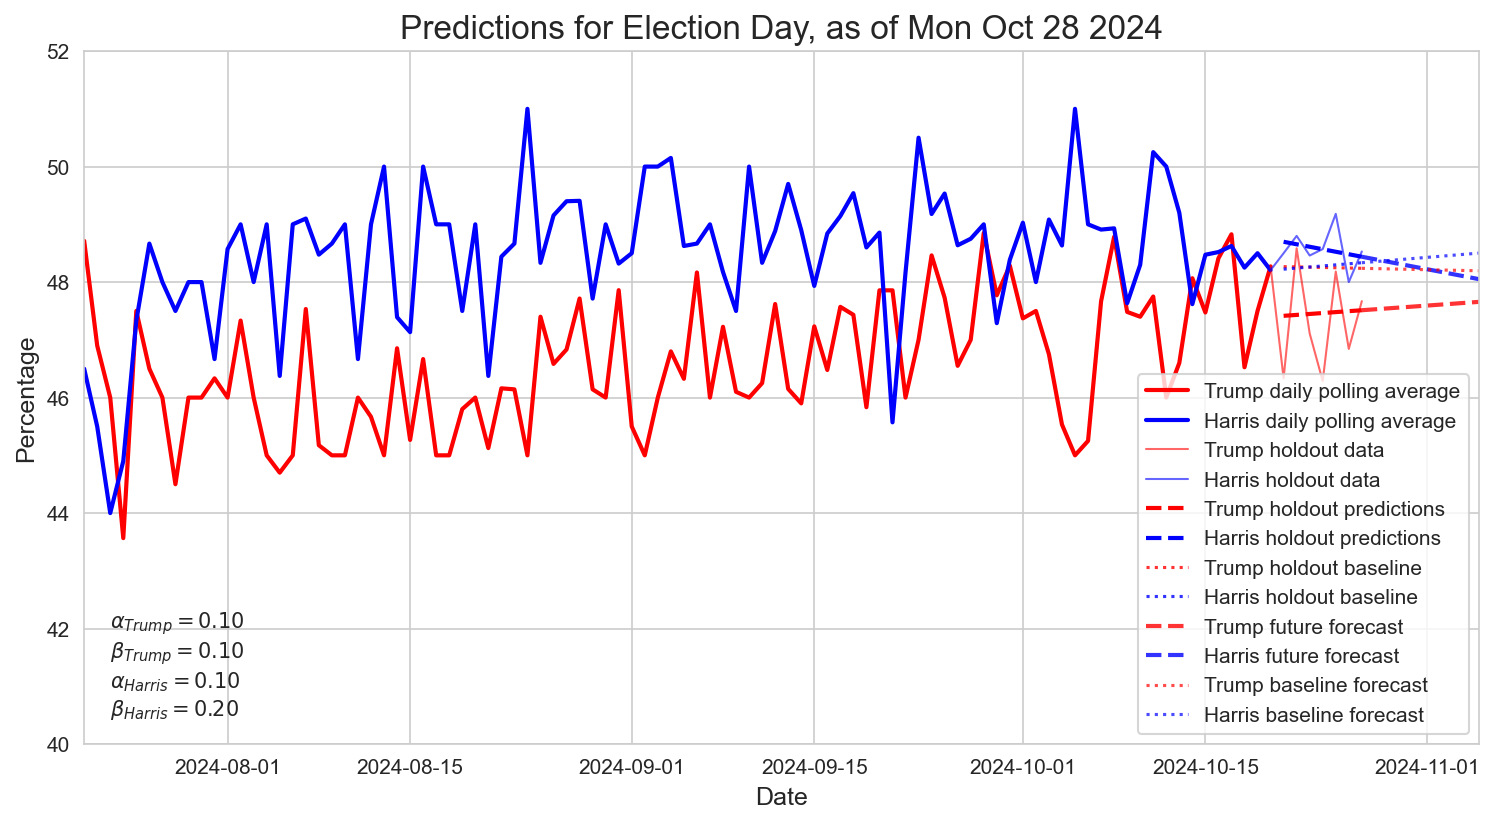
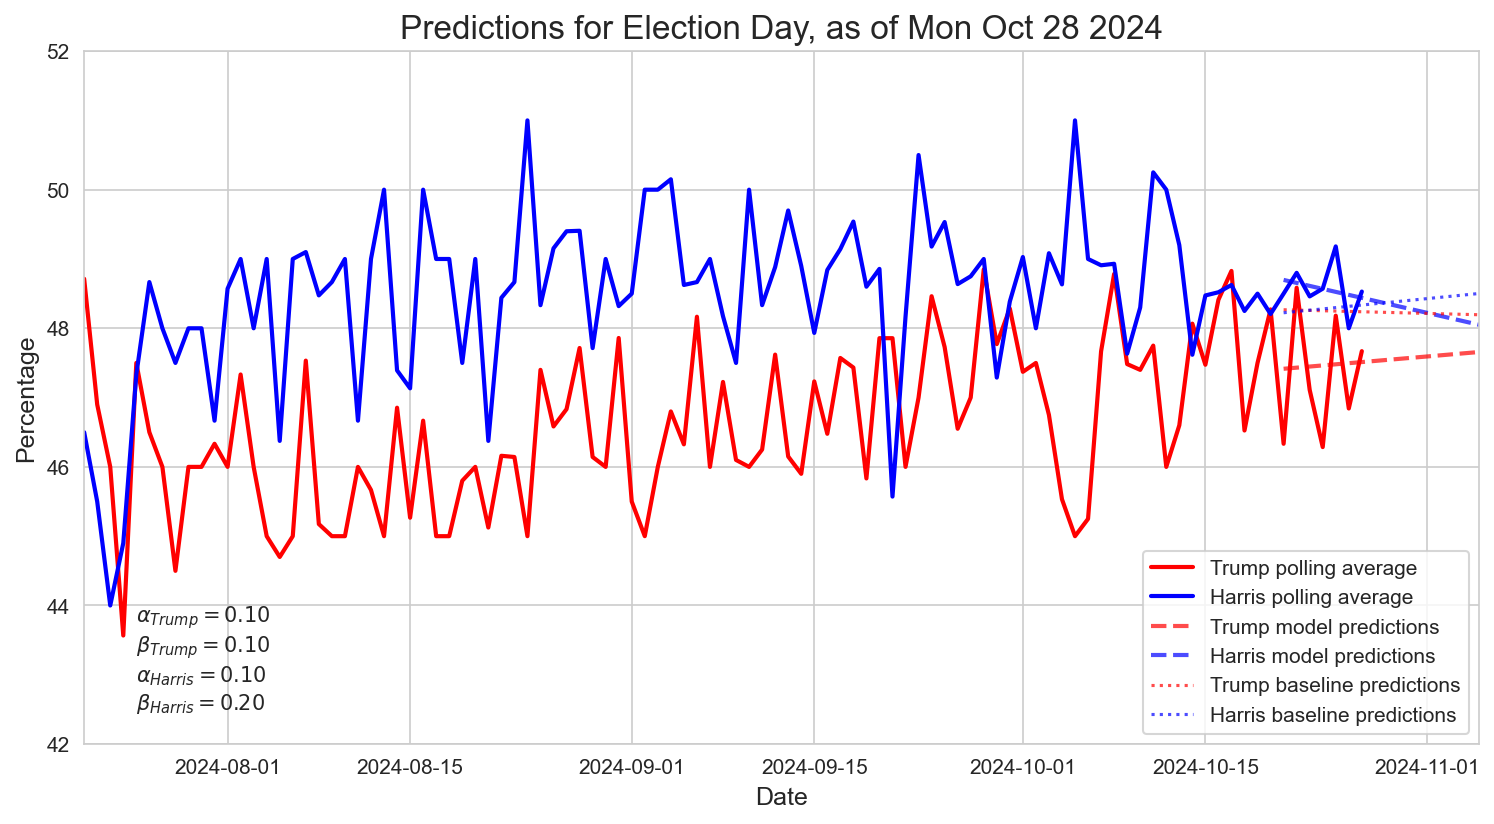
Consolidated plotting.py functions

Changed region(s): [[0.0308, 0.1517, 1.0, 0.8799], [0.0308, 0.182, 0.0616, 0.2427]]

diff --git a/src/visualization/plotting.py b/src/visualization/plotting.py
@@ -88,7 +88,7 @@ class ElectionPlotter:
         plt.xlabel("Date", fontsize=12)
         plt.ylabel("Percentage", fontsize=12)
         plt.xlim(datetime(2024, 7, 21), datetime(2024, 11, 5))
-        plt.ylim(40, 52)
+        plt.ylim(42, 52)
 
         # Title with forecast date
         title_date = forecast_date.strftime("%a %b %d %Y")
@@ -96,9 +96,6 @@ class ElectionPlotter:
         plt.legend()
 
         # Add parameter annotations
-        election_day_dt = datetime(2024, 11, 5)
-        trump_final = round(forecasts["trump"][-1], 1)
-
         param_text = (
             f"$\\alpha_{{Trump}} = {best_params['trump']['alpha']:.2f}$\n"
             f"$\\beta_{{Trump}} = {best_params['trump']['beta']:.2f}$\n"
@@ -106,12 +103,7 @@ class ElectionPlotter:
             f"$\\beta_{{Harris}} = {best_params['harris']['beta']:.2f}$"
         )
 
-        # Use type: ignore for matplotlib annotation since it handles datetime objects in practice
-        plt.annotate(
-            param_text,
-            xy=(election_day_dt, trump_final),  # type: ignore[arg-type]
-            xytext=(datetime(2024, 7, 23), 40.5),  # type: ignore[arg-type]
-        )
+        plt.text(datetime(2024, 7, 25), 42.5, param_text)  # type: ignore[arg-type]
 
         # Save plot
         save_path.unlink(missing_ok=True)
@@ -119,8 +111,6 @@ class ElectionPlotter:
             save_path,
             bbox_inches="tight",
             dpi=150,
-            facecolor="white",
-            edgecolor="none",
         )
         logger.info(f"Saved main forecast plot to {save_path}")
         plt.close()
@@ -142,7 +132,7 @@ class ElectionPlotter:
         trump_train_len = len(trump_train_data)
         harris_train_len = len(harris_train_data)
 
-        # 1. Holdout model predictions
+        # Create continuous prediction lines (holdout + future)
         trump_holdout_fitted = fitted_values["trump"][
             trump_train_len : trump_train_len + len(trump_holdout_data)
         ]
@@ -150,91 +140,66 @@ class ElectionPlotter:
             harris_train_len : harris_train_len + len(harris_holdout_data)
         ]
 
+        # Combine dates and values for continuous plotting
+        trump_prediction_dates = list(trump_holdout_data["end_date"]) + list(
+            forecast_period_dates
+        )
+        harris_prediction_dates = list(harris_holdout_data["end_date"]) + list(
+            forecast_period_dates
+        )
+        trump_prediction_values = list(trump_holdout_fitted) + list(forecasts["trump"])
+        harris_prediction_values = list(harris_holdout_fitted) + list(
+            forecasts["harris"]
+        )
+
+        # Plot continuous model predictions
         plt.plot(
-            trump_holdout_data["end_date"],
-            trump_holdout_fitted,
+            trump_prediction_dates,
+            trump_prediction_values,
             "r--",
             linewidth=2,
             alpha=0.7,
             label="Trump model predictions",
         )
         plt.plot(
-            harris_holdout_data["end_date"],
-            harris_holdout_fitted,
+            harris_prediction_dates,
+            harris_prediction_values,
             "b--",
             linewidth=2,
             alpha=0.7,
             label="Harris model predictions",
         )
 
-        # 2. Future model forecasts (with connection from last holdout prediction)
-        continuous_trump_dates = [trump_holdout_data["end_date"].iloc[-1]] + list(
+        # Create continuous baseline lines (holdout + future)
+        trump_baseline_dates = list(trump_holdout_data["end_date"]) + list(
             forecast_period_dates
         )
-        continuous_harris_dates = [harris_holdout_data["end_date"].iloc[-1]] + list(
+        harris_baseline_dates = list(harris_holdout_data["end_date"]) + list(
             forecast_period_dates
         )
-        continuous_trump_values = [fitted_values["trump"][-1]] + list(
-            forecasts["trump"]
+        trump_baseline_values = list(holdout_baselines["trump"]) + list(
+            baselines["trump"]
         )
-        continuous_harris_values = [fitted_values["harris"][-1]] + list(
-            forecasts["harris"]
-        )
-
-        plt.plot(
-            continuous_trump_dates,
-            continuous_trump_values,
-            "r--",
-            linewidth=2,
-            alpha=0.8,
-            label="Trump forecast",
-        )
-        plt.plot(
-            continuous_harris_dates,
-            continuous_harris_values,
-            "b--",
-            linewidth=2,
-            alpha=0.8,
-            label="Harris forecast",
+        harris_baseline_values = list(holdout_baselines["harris"]) + list(
+            baselines["harris"]
         )
 
-        # 3. Holdout baseline predictions
-        trump_baseline = holdout_baselines["trump"]
-        harris_baseline = holdout_baselines["harris"]
-
+        # Plot continuous baseline predictions
         plt.plot(
-            trump_holdout_data["end_date"],
-            trump_baseline,
+            trump_baseline_dates,
+            trump_baseline_values,
             "r:",
             linewidth=1.5,
-            alpha=0.8,
+            alpha=0.7,
             label="Trump baseline predictions",
         )
         plt.plot(
-            harris_holdout_data["end_date"],
-            harris_baseline,
+            harris_baseline_dates,
+            harris_baseline_values,
             "b:",
             linewidth=1.5,
-            alpha=0.8,
+            alpha=0.7,
             label="Harris baseline predictions",
-        )
-
-        # 4. Future baseline forecasts
-        plt.plot(
-            forecast_period_dates,
-            baselines["trump"],
-            "r:",
-            linewidth=1.5,
-            alpha=0.7,
-            label="Trump baseline forecast",
-        )
-        plt.plot(
-            forecast_period_dates,
-            baselines["harris"],
-            "b:",
-            linewidth=1.5,
-            alpha=0.7,
-            label="Harris baseline forecast",
         )
 
     def plot_historical_forecasts(
@@ -264,6 +229,7 @@ class ElectionPlotter:
             trump_data,
             color="red",
             label_prefix="Trump (model prediction)",
+            value_column="model",
             line_style="-",
             marker="o",
             markersize=4,
@@ -272,24 +238,27 @@ class ElectionPlotter:
             harris_data,
             color="blue",
             label_prefix="Harris (model prediction)",
+            value_column="model",
             line_style="-",
             marker="o",
             markersize=4,
         )
 
         # Plot baseline predictions with gap-aware line breaking
-        self._plot_baseline_segments(
+        self._plot_continuous_segments(
             trump_data,
             color="red",
             label_prefix="Trump (baseline)",
+            value_column="baseline",
             line_style="--",
             marker="s",
             markersize=3,
         )
-        self._plot_baseline_segments(
+        self._plot_continuous_segments(
             harris_data,
             color="blue",
             label_prefix="Harris (baseline)",
+            value_column="baseline",
             line_style="--",
             marker="s",
             markersize=3,
@@ -299,7 +268,7 @@ class ElectionPlotter:
         plt.xlabel("Date", fontsize=12)
         plt.ylabel("Percentage of popular vote", fontsize=12)
         plt.xlim(datetime(2024, 10, 23), datetime(2024, 11, 5))
-        plt.ylim(45, 52)
+        plt.ylim(42, 52)
 
         # Set x-axis ticks
         tick_dates = [
@@ -310,7 +279,7 @@ class ElectionPlotter:
             datetime(2024, 10, 31),
             datetime(2024, 11, 2),
             datetime(2024, 11, 4),
-            datetime(2024, 11, 5),
+            # datetime(2024, 11, 5),
         ]
         plt.xticks(tick_dates)  # type: ignore[arg-type]
 
@@ -326,18 +295,26 @@ class ElectionPlotter:
             save_path,
             bbox_inches="tight",
             dpi=150,
-            facecolor="white",
-            edgecolor="none",
         )
         logger.info(f"Saved historical forecasts plot to {save_path}")
         plt.close()
 
     def _plot_continuous_segments(
-        self, data, color, label_prefix, line_style="-", marker="o", markersize=4
+        self,
+        data,
+        color,
+        label_prefix,
+        value_column,
+        line_style="-",
+        marker="o",
+        markersize=4,
     ):
         """Plot data in continuous segments, breaking lines at gaps."""
+        # Filter out NaN values for the specified column
+        plot_data = data[data[value_column].notna()]
+
         # Sort data by date
-        data_sorted = data.sort_values("date").copy()
+        data_sorted = plot_data.sort_values("date").copy()
         data_sorted["plot_date"] = pd.to_datetime(data_sorted["date"])
 
         # Find gaps in the date sequence (more than 1 day apart)
@@ -366,7 +343,7 @@ class ElectionPlotter:
                 # Single point - just plot marker
                 plt.plot(
                     segment["plot_date"],
-                    segment["model"],
+                    segment[value_column],
                     color=color,
                     marker=marker,
                     markersize=markersize,
@@ -377,59 +354,7 @@ class ElectionPlotter:
                 # Multiple points - plot line segment
                 plt.plot(
                     segment["plot_date"],
-                    segment["model"],
-                    color=color,
-                    linestyle=line_style,
-                    marker=marker,
-                    markersize=markersize,
-                    linewidth=2,
-                    label=segment_label,
-                )
-
-    def _plot_baseline_segments(
-        self, data, color, label_prefix, line_style="--", marker="s", markersize=3
-    ):
-        """Plot baseline data in continuous segments, breaking lines at gaps."""
-        baseline_data = data[data["baseline"].notna()]
-
-        # Sort data by date
-        data_sorted = baseline_data.sort_values("date").copy()
-        data_sorted["plot_date"] = pd.to_datetime(data_sorted["date"])
-
-        # Find gaps and split into segments (same logic as _plot_continuous_segments)
-        gaps = []
-        for i in range(1, len(data_sorted)):
-            current_date = data_sorted.iloc[i]["plot_date"]
-            previous_date = data_sorted.iloc[i - 1]["plot_date"]
-            days_diff = (current_date - previous_date).days
-            if days_diff > 1:
-                gaps.append(i)
-
-        segments = []
-        start_idx = 0
-        for gap_idx in gaps:
-            segments.append(data_sorted.iloc[start_idx:gap_idx])
-            start_idx = gap_idx
-        segments.append(data_sorted.iloc[start_idx:])
-
-        # Plot each segment separately
-        for i, segment in enumerate(segments):
-            segment_label = label_prefix if i == 0 else None
-
-            if len(segment) == 1:
-                plt.plot(
-                    segment["plot_date"],
-                    segment["baseline"],
-                    color=color,
-                    marker=marker,
-                    markersize=markersize,
-                    linestyle="None",
-                    label=segment_label,
-                )
-            else:
-                plt.plot(
-                    segment["plot_date"],
-                    segment["baseline"],
+                    segment[value_column],
                     color=color,
                     linestyle=line_style,
                     marker=marker,
